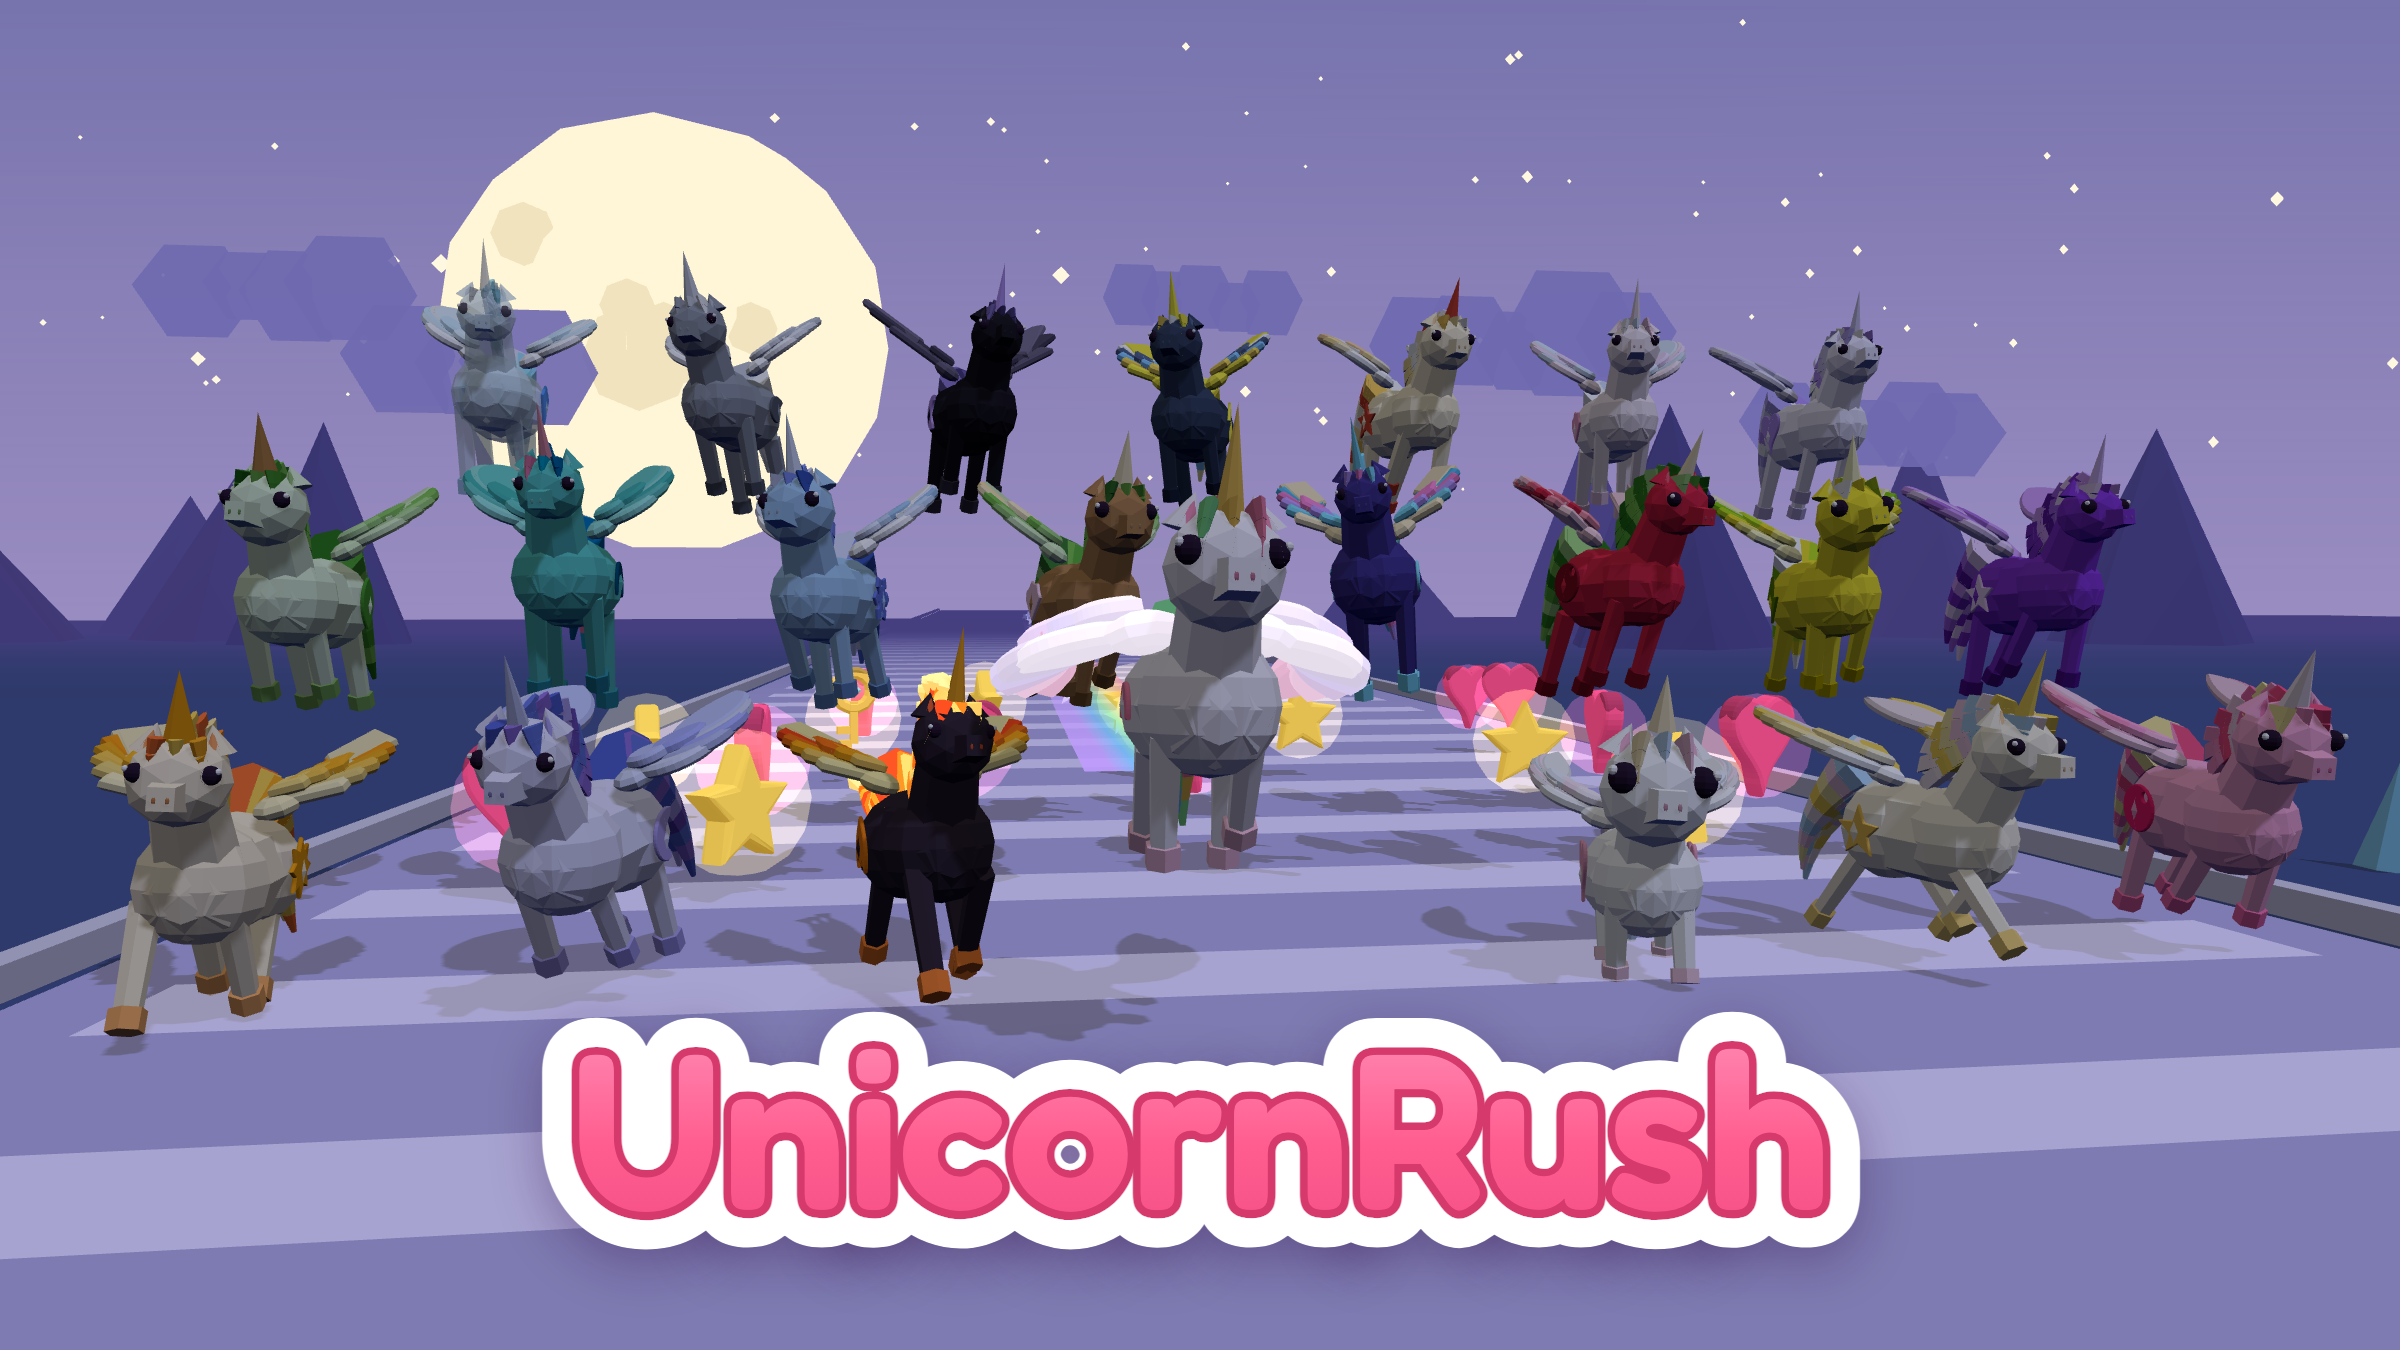
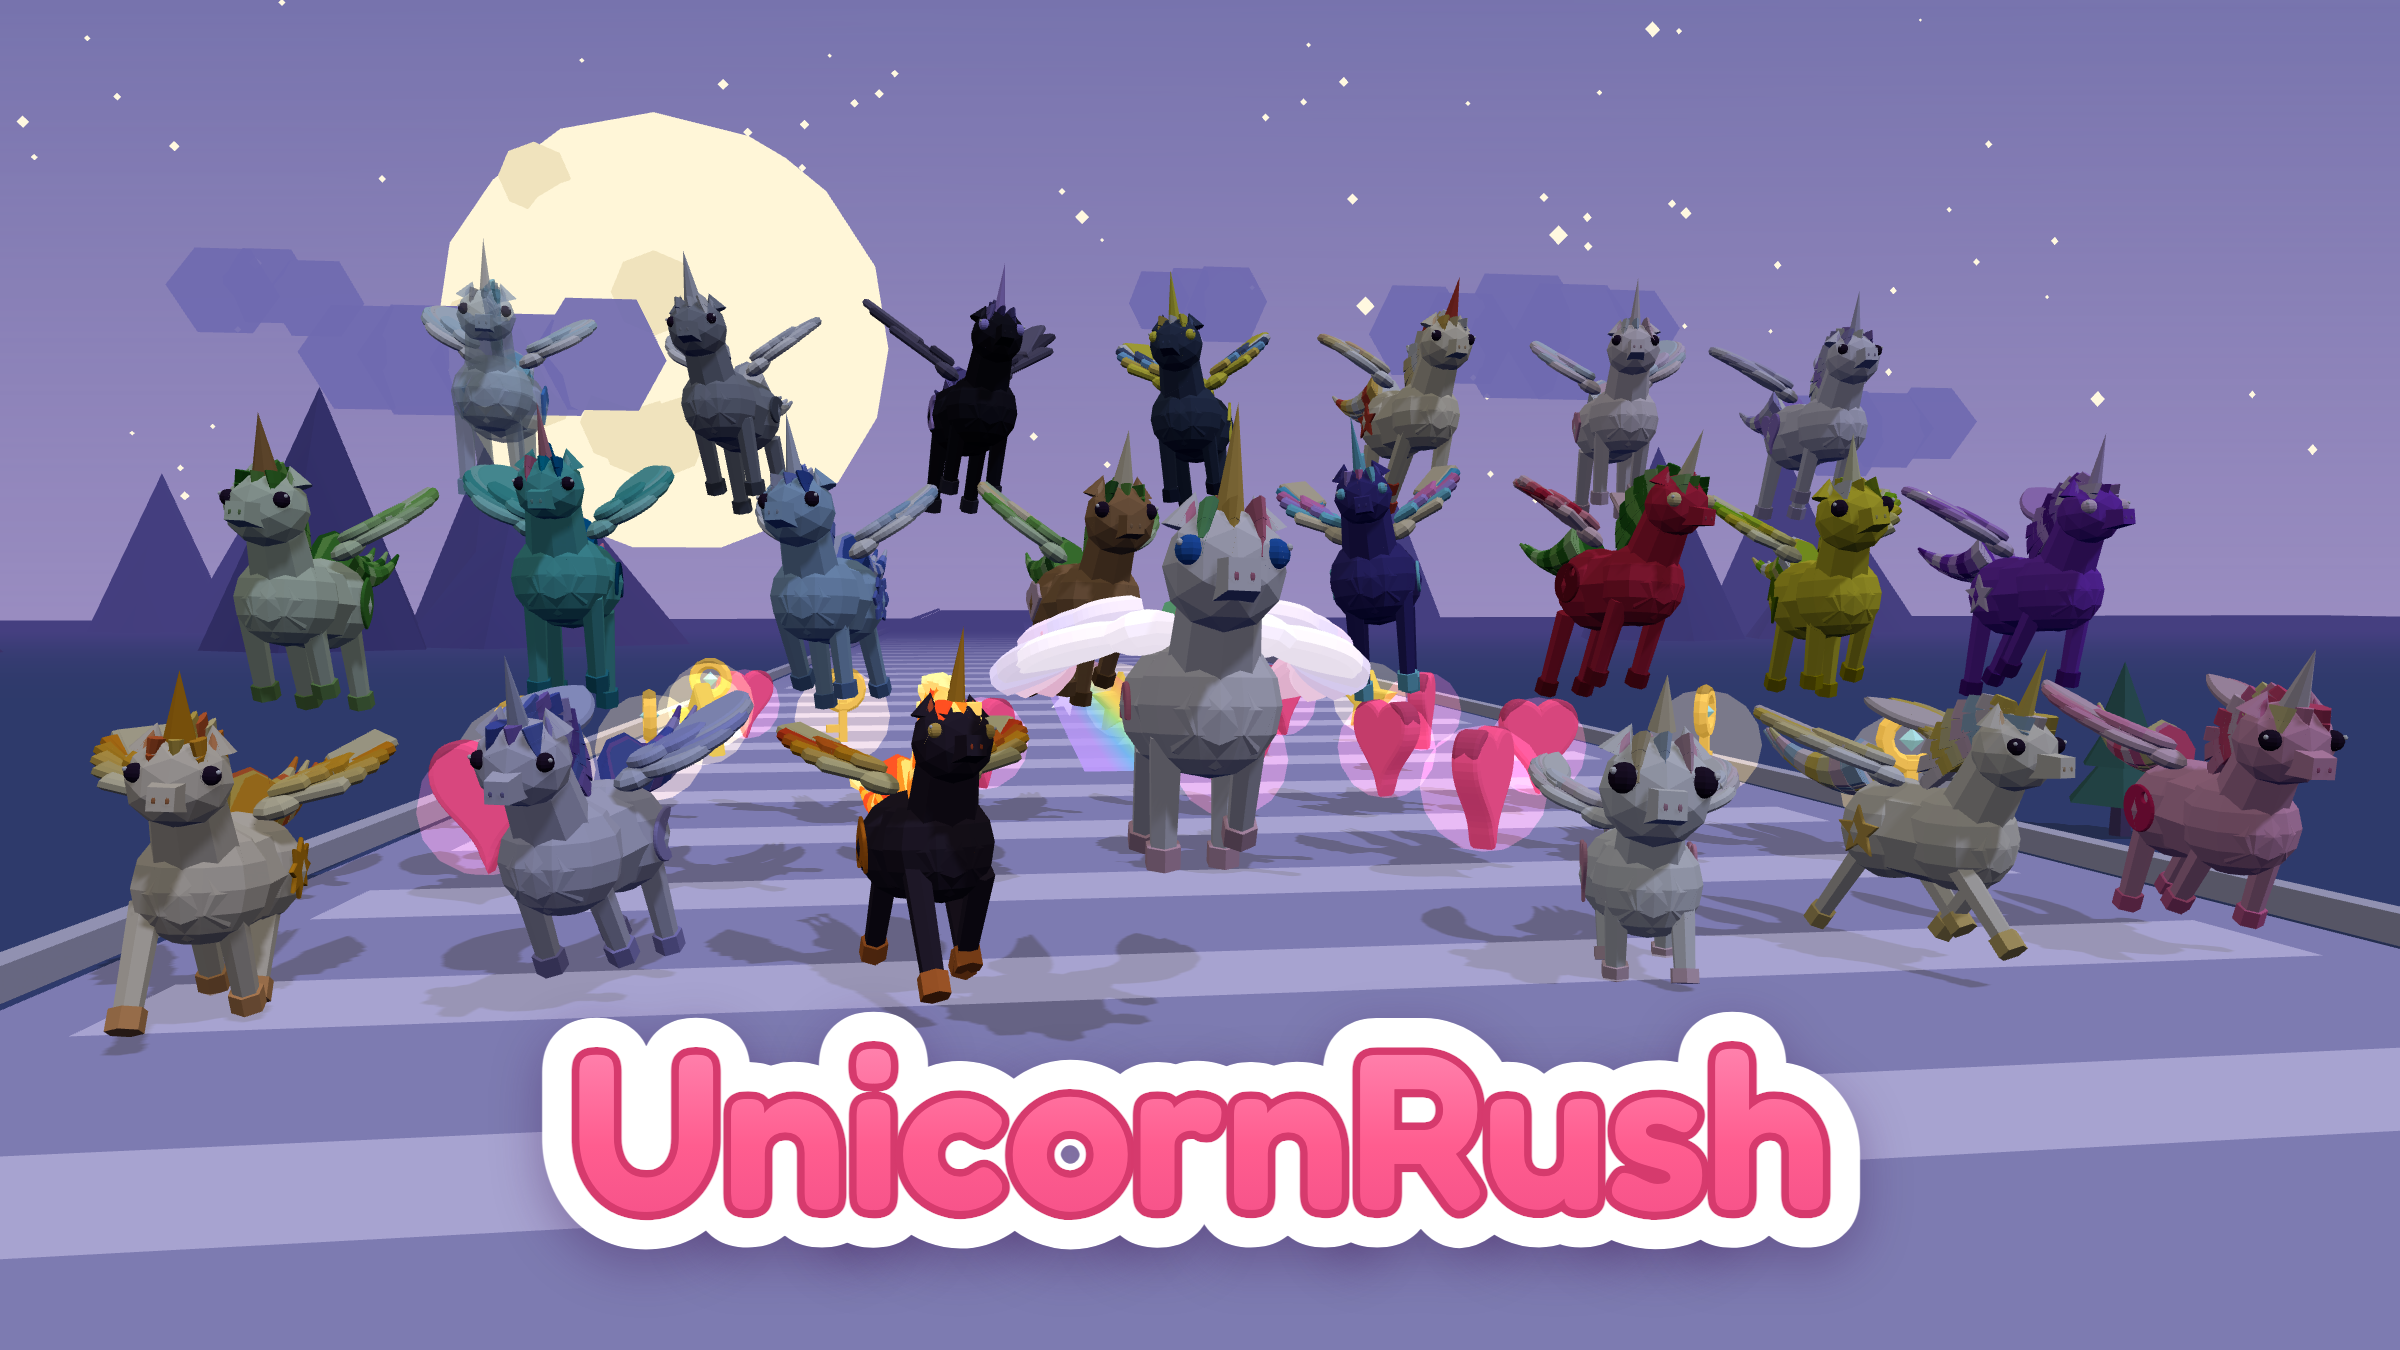
O rabo de fogo vira o de todos, mais fino, e cada um ganha a cor do olho
**O rabo do Brasa para todo mundo.** Ele era o único sem curva — o `fiery`
zerava — e acabou sendo o melhor: varre reto para trás, acompanhando a linha
da garupa. A curva que os outros tinham enrolava a ponta para baixo e
engrossava a silhueta. Ficou também um tico mais fino (0,24 contra 0,30).

**A cor do olho passou a ser do personagem.** O escuro que servia a todos
sumia em quem tem o corpo escuro: no Sombra, que é preto de verdade, o olho
simplesmente não existia. Agora a Uni tem olhos **azuis**, como na ilustração
do livro, e os seis de corpo escuro ganharam o seu — âmbar no Brasa, amarelo
no Relâmpago, lilás no Sombra, gelo no Cometa, quase branco na Violeta,
creme na Cereja.

Quem não declarar `eye` e tiver o corpo escuro ganha olho claro
automaticamente. É rede de segurança: personagem novo escuro não nasce sem
cara só porque ninguém lembrou de escolher a cor.

O brilho do olho encolheu e subiu para cima da íris. Com o olho escuro ele
passava; colorido, do tamanho que estava e na borda, parava de ler como luz e
virava uma bolinha grudada.

Refeitos a animação do carregamento e os dois anúncios.

diff --git a/src/models/unicorn.js b/src/models/unicorn.js
@@ -138,11 +138,14 @@ function makeTail(colors, fiery = false) {
     const desloca = colors.slice(i).concat(colors.slice(0, i));
     const lock = makeLock(desloca, {
       length: 1.5 - i * 0.09,
-      width: 0.3,                        // grosso na base, como na escultura
+      width: 0.24,                       // um tico mais fino
       segments: 8,
-      afunila: 0.92,                     // e fechando numa ponta
-      flatten: fiery ? 0.8 : 0.9,        // quase redonda: fio, não fita
-      curva: fiery ? 0 : 0.24,           // vírgula, não vareta
+      afunila: 0.92,                     // fechando numa ponta
+      // O mesmo do rabo de fogo para todo mundo: reto, varrendo para trás.
+      // A curva que os outros tinham enrolava a ponta para baixo e engrossava
+      // a silhueta; sem ela o rabo acompanha a linha da garupa.
+      flatten: 0.8,
+      curva: 0,
       fiery,
     });
     // Bem juntos, e quase sem abrir. Com 0,14 de abertura eles divergiam ao
@@ -465,6 +468,27 @@ function makeMark(mark) {
 
 // ---------------------------------------------------------------------------
 
+// A cor do olho.
+//
+// O escuro de sempre some em quem tem o corpo escuro — no Sombra, que é
+// preto de verdade, o olho simplesmente não existia. Quem não declara `eye`
+// e é escuro ganha um olho claro automaticamente, para nenhum personagem
+// novo nascer sem cara; os que declaram mandam, e é por ali que cada um
+// ganha o seu (o azul da Uni, o âmbar do Brasa, o amarelo do Relâmpago).
+const ESCURO = 0x30203a;
+const CLARO = 0xf2f0ff;
+
+function luminancia(hex) {
+  return 0.2126 * ((hex >> 16) & 255) / 255
+    + 0.7152 * ((hex >> 8) & 255) / 255
+    + 0.0722 * (hex & 255) / 255;
+}
+
+function corDoOlho(character) {
+  if (character.eye !== undefined) return character.eye;
+  return luminancia(character.body) < 0.34 ? CLARO : ESCURO;
+}
+
 export function createUnicorn(character = CHARACTERS.uni) {
   const unicorn = new THREE.Group();
 
@@ -548,7 +572,7 @@ export function createUnicorn(character = CHARACTERS.uni) {
   const ears = [];
   for (const side of [-1, 1]) {
     const raioOlho = 0.07 * shape.eye;
-    const eye = new THREE.Mesh(new THREE.SphereGeometry(raioOlho, 8, 8), mat(0x30203a));
+    const eye = new THREE.Mesh(new THREE.SphereGeometry(raioOlho, 8, 8), mat(corDoOlho(character)));
     eye.position.set(side * 0.22, 0.06, -0.2);
     head.add(eye);
 
@@ -556,10 +580,13 @@ export function createUnicorn(character = CHARACTERS.uni) {
     // onde a luz bateria. É o que separa "olho" de "botão de casaco" — e
     // custa uma peça, não as três de um olho montado em camadas.
     const fora = new THREE.Vector3(side * 0.22, 0.06, -0.2).normalize();
-    const brilho = new THREE.Mesh(new THREE.SphereGeometry(raioOlho * 0.33, 6, 5), mat(0xffffff));
-    brilho.position.copy(eye.position).addScaledVector(fora, raioOlho * 0.7);
-    brilho.position.x += side * raioOlho * 0.26;
-    brilho.position.y += raioOlho * 0.3;
+    // Pequeno e bem em cima do olho. Maior, e afastado para a borda, ele
+    // parava de ler como luz e virava uma bolinha grudada — o que só ficou
+    // evidente quando o olho ganhou cor.
+    const brilho = new THREE.Mesh(new THREE.SphereGeometry(raioOlho * 0.24, 6, 5), mat(0xffffff));
+    brilho.position.copy(eye.position).addScaledVector(fora, raioOlho * 0.82);
+    brilho.position.x += side * raioOlho * 0.18;
+    brilho.position.y += raioOlho * 0.24;
     head.add(brilho);
 
     // Orelha baixinha e larga, com o rosa por dentro. Era um cone alto e

diff --git a/src/models/characters.js b/src/models/characters.js
@@ -20,6 +20,7 @@ export const CHARACTERS = {
     id: 'uni',
     name: 'Uni',
     emoji: '🌈',
+    eye: 0x2f6fd4,   // azul, como na ilustração do livro
     // Um tico mais infantil que os adultos: cabeça e olho maiores, perna
     // mais curta. Não chega perto da Lulu, que é o bebê de verdade.
     proportions: { head: 1.12, legs: 0.9, eye: 1.15 },
@@ -91,6 +92,7 @@ export const CHARACTERS = {
     id: 'brasa',
     name: 'Brasa',
     emoji: '🔥',
+    eye: 0xffd166,   // âmbar de brasa
     title: 'o unicórnio de fogo',
     story: 'Brasa é o maior da turma e corre tão rápido que a crina dele pega fogo. '
       + 'Onde ele passa fica um caminho de brasas quentinhas que some devagar.',
@@ -327,6 +329,7 @@ export const CHARACTERS = {
     id: 'cometa',
     name: 'Cometa',
     emoji: '☄',
+    eye: 0x8ce9ff,   // gelo de cometa
     title: 'o unicórnio do espaço',
     story: 'Cometa não sabe parar: desde que nasceu está atravessando o céu. '
       + 'Dizem que quem consegue acompanhá-lo ganha um pedido.',
@@ -365,6 +368,7 @@ export const CHARACTERS = {
     id: 'cereja',
     name: 'Cereja',
     emoji: '🍒',
+    eye: 0xffe9a8,   // creme quente no vermelho
     title: 'a unicórnia mais ligeira',
     story: 'Cereja não anda: ela desvia. Dizem que consegue trocar de pista '
       + 'duas vezes antes de a poeira do primeiro desvio assentar.',
@@ -423,6 +427,7 @@ export const CHARACTERS = {
     id: 'violeta',
     name: 'Violeta',
     emoji: '🔮',
+    eye: 0xffe0ff,   // quase branco, na fumaça roxa
     title: 'a unicórnia de fumaça',
     story: 'Violeta é meio feita de fumaça: quando salta, demora para descer, '
       + 'como se o ar segurasse ela um pouquinho.',
@@ -504,6 +509,7 @@ export const CHARACTERS = {
     id: 'sombra',
     name: 'Sombra',
     emoji: '🦇',
+    eye: 0xb9a6ff,   // lilás que acende no preto
     title: 'o unicórnio da meia-noite',
     story: 'Sombra é preto de verdade, sem um fiozinho de cor. '
       + 'Ele brilha por conta própria, então nunca corre no escuro.',
@@ -533,6 +539,7 @@ export const CHARACTERS = {
     id: 'relampago',
     name: 'Relâmpago',
     emoji: '⚡',
+    eye: 0xfff44f,   // o amarelo do raio
     title: 'o unicórnio da tempestade',
     story: 'Relâmpago nasceu no talho de um raio, numa noite de tempestade. '
       + 'O vento que desgoverna todo mundo não desvia ele nem um pouco: corta a Tempestade em linha reta.',

diff --git a/sw.js b/sw.js
@@ -5,7 +5,7 @@
 //
 // O nome do cache carrega a versão do jogo: ao subi-la (com `npm run bump`),
 // o cache velho é apagado sozinho no aparelho de quem já jogou.
-const VERSION = 'unicornrush-v0.25.1';
+const VERSION = 'unicornrush-v0.25.2';
 
 const SHELL = [
   './',

diff --git a/src/game/version.js b/src/game/version.js
@@ -7,4 +7,4 @@
 // Para subir a versão use `npm run bump` — ele mexe nos três lugares de uma
 // vez (aqui, no `package.json` e no `sw.js`), que é o que impede de um deles
 // ficar para trás.
-export const VERSION = '0.25.1';
+export const VERSION = '0.25.2';

diff --git a/README.md b/README.md
@@ -405,8 +405,15 @@ geometria já girada na montagem para o eixo apontar para a frente sem
 depender da ordem das rotações. As narinas ficam na ponta, na cor do
 personagem escurecida.
 
-**O olho** é a bolinha escura com um brilho branco em cima, do lado de fora,
-onde a luz bateria. É o que separa "olho" de "botão de casaco", por uma peça.
+**O olho** é uma bolinha com um brilho branco em cima, do lado de fora, onde
+a luz bateria — é o que separa "olho" de "botão de casaco", por uma peça.
+
+A cor sai do `eye` do personagem. O escuro que servia a todos sumia em quem
+tem o corpo escuro: no Sombra, que é preto de verdade, o olho simplesmente
+não existia. Agora cada um tem o seu — o **azul** da Uni (como na
+ilustração), o âmbar do Brasa, o amarelo do Relâmpago, o lilás do Sombra —, e
+quem não declarar nada e for escuro ganha um olho claro automaticamente, para
+nenhum personagem novo nascer sem cara.
 
 **As orelhas** são baixas e largas, com o rosa por dentro. Cones altos, ao
 lado do chifre, viravam um segundo chifre — três pontas na mesma cabeça.
@@ -435,10 +442,12 @@ faixas ao longo do rabo e é o mesmo de qualquer lado. São três fios grossos
 quase no mesmo lugar, com as cores defasadas entre eles, formando uma massa
 só — como na escultura.
 
-**A forma é a da escultura**: o rabo sai da garupa para trás (−0,72 rad, e
-não quase na vertical, que lia como vareta pendurada) e a curva das mechas o
-traz de volta para baixo, desenhando uma vírgula. Fecha numa ponta —
-`afunila: 0,92`, contra os 0,66 da crina.
+**A forma é a do rabo de fogo**, que era o único sem curva e acabou sendo o
+melhor de todos: sai da garupa para trás (−0,72 rad — quase na vertical ele
+lia como vareta pendurada) e varre reto, acompanhando a linha da garupa. A
+curva que os outros tinham enrolava a ponta para baixo e engrossava a
+silhueta. Fecha numa ponta (`afunila: 0,92`, contra os 0,66 da crina, que
+precisa terminar arredondada).
 
 Os três fios ficam **quase colados**: abrindo 0,14 eles divergiam ao longo do
 comprimento e, de trás, liam como três rabos.
